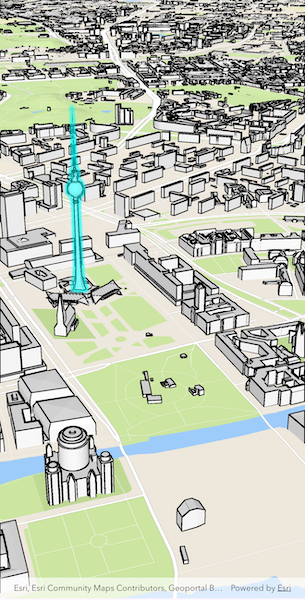
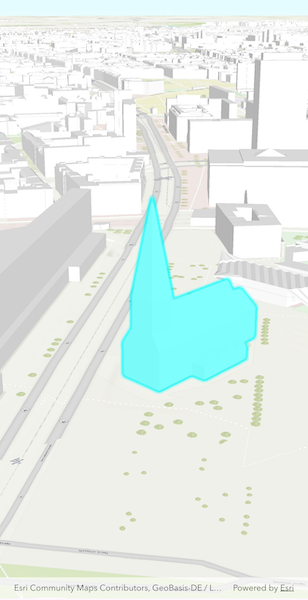
Updated select features in scene layer sample

diff --git a/lib/samples/select_features_in_scene_layer/select_features_in_scene_layer.dart b/lib/samples/select_features_in_scene_layer/select_features_in_scene_layer.dart
@@ -29,9 +29,12 @@ class _SelectFeaturesInSceneLayerState extends State<SelectFeaturesInSceneLayer>
     with SampleStateSupport {
   // Create a controller for the scene view.
   final _sceneViewController = ArcGISSceneView.createController();
-
   // Define an ArcGISSceneLayer.
-  late ArcGISSceneLayer _sceneLayer;
+  final _sceneLayer = ArcGISSceneLayer.withUri(
+    Uri.parse(
+      'https://tiles.arcgis.com/tiles/P3ePLMYs2RVChkJx/arcgis/rest/services/Buildings_Berlin/SceneServer/layers/0',
+    ),
+  );
 
   // A flag for when the map view is ready and controls can be used.
   var _ready = false;
@@ -62,25 +65,42 @@ class _SelectFeaturesInSceneLayerState extends State<SelectFeaturesInSceneLayer>
   }
 
   Future<void> onSceneViewReady() async {
-    // Create a scene with from the uri.
-    final scene = ArcGISScene.withUri(
-      Uri.parse(
-        'https://www.arcgis.com/home/item.html?id=31874da8a16d45bfbc1273422f772270',
+    // Create a scene with Topographic basemap.
+    final scene = ArcGISScene.withBasemapStyle(BasemapStyle.arcGISTopographic);
+
+    // Create camera with initial latitude and longitude (GBP College, Berlin).
+    final camera = Camera.withLatLong(
+      latitude: 52.52003000,
+      longitude: 13.40489000,
+      altitude: 200,
+      heading: 41.65,
+      pitch: 71.2,
+      roll: 0,
+    );
+
+    // Set the initial viewpoint to camera position at point.
+    _sceneViewController.setViewpoint(
+      Viewpoint.withExtentCamera(targetExtent: camera.location, camera: camera),
+    );
+
+    // Create a surface and add an elevation source.
+    final surface = Surface();
+    surface.elevationSources.add(
+      ArcGISTiledElevationSource.withUri(
+        Uri.parse(
+          'https://elevation3d.arcgis.com/arcgis/rest/services/WorldElevation3D/Terrain3D/ImageServer',
+        ),
       ),
     );
-    // Load the scene.
-    await scene!.load();
-    // Set the scene to ArcGISSceneViewController
-    _sceneViewController.arcGISScene = scene;
+    // Set the surface to scene.
+    scene.baseSurface = surface;
 
-    // Get the operational layers from ArcGISScene
-    final operationalLayers = scene.operationalLayers;
-    // There are two layers from the provided Berlin, Germany Scene. We need the ArcGISSceneLayer
-    _sceneLayer =
-        operationalLayers.firstWhere(
-              (layer) => layer.runtimeType == ArcGISSceneLayer,
-            )
-            as ArcGISSceneLayer;
+    await _sceneLayer.load();
+    // Add buildings scene layer to the scene.
+    scene.operationalLayers.add(_sceneLayer);
+
+    // Set the scene to scene view controller.
+    _sceneViewController.arcGISScene = scene;
 
     // Set the ready state variable to true to enable the sample UI.
     setState(() => _ready = true);
